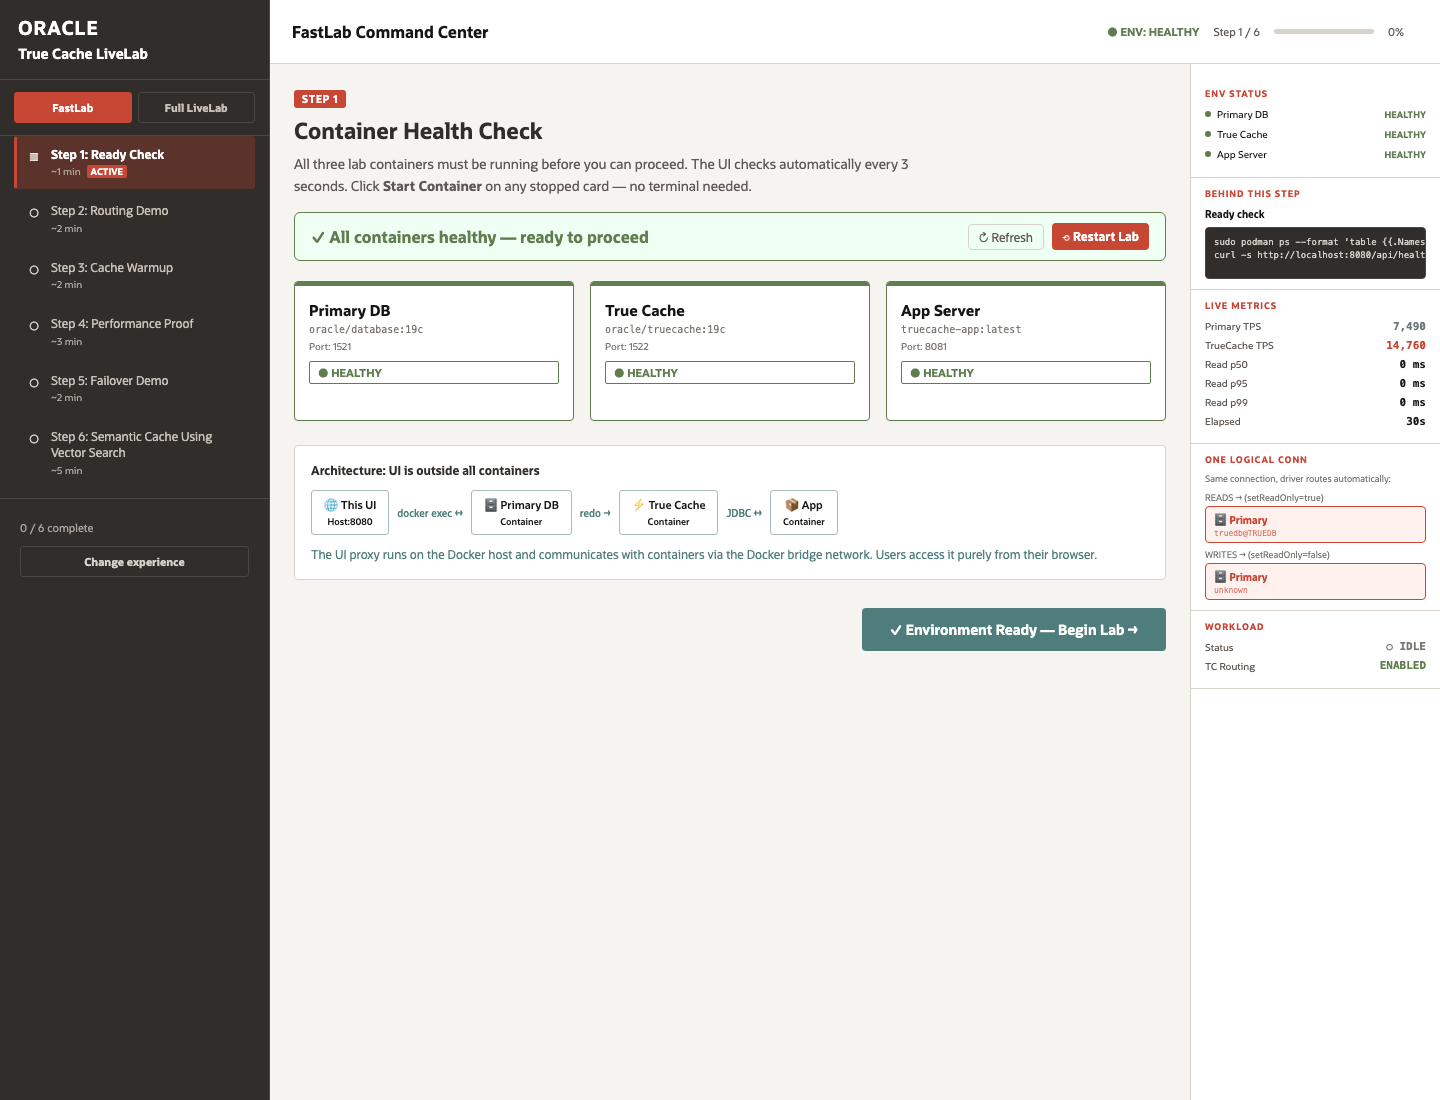
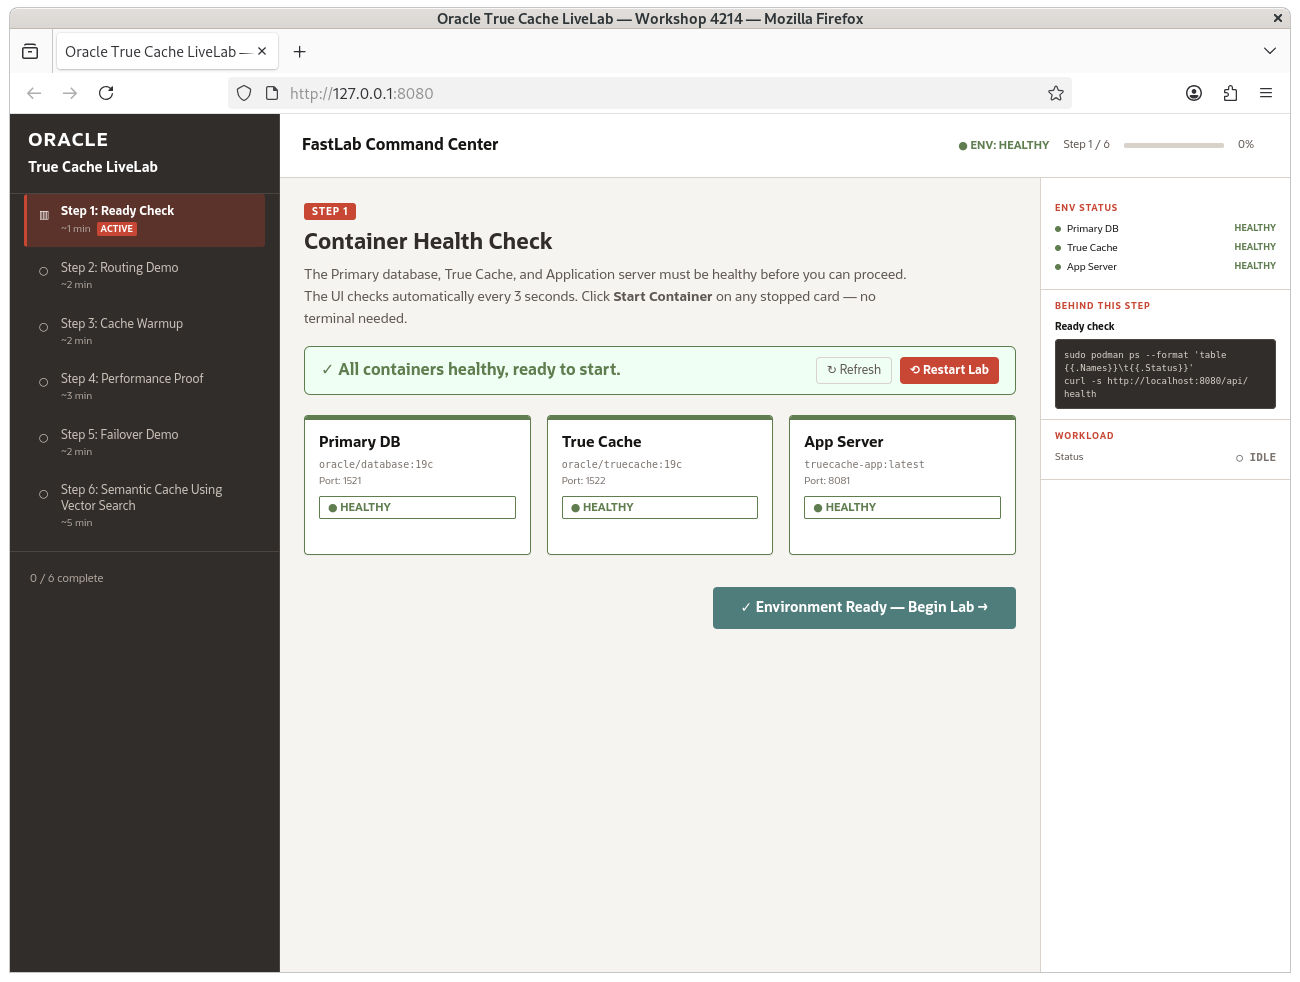
TrueCache live labs changes as per Nithin's review

Changed region(s): [[0.0, 0.0, 1.0, 1.0], [0.9538, 0.5804, 1.0, 0.611]]

diff --git a/truecache/fastlab/fastlab_dbw26.md b/truecache/fastlab/fastlab_dbw26.md
@@ -2,7 +2,7 @@
 
 ## Introduction
 
-FastLab is a visual, six-step demonstration of Oracle True Cache. The command center uses the pre-provisioned transaction environment and runs the database checks, JDBC workloads, cache warmup, availability test, and vector searches through guided controls.
+FastLab is a visual, six-step demonstration of Oracle True Cache. Open the command center and follow the single guided flow; no experience chooser or separate command-line lab is required. The command center uses the pre-provisioned transaction environment and runs the database checks, JDBC workloads, cache warmup, availability test, and vector searches through guided controls.
 
 The environment contains the `TRANSACTIONS` schema with preloaded `ACCOUNTS`, `PAYMENTS`, and payment-vector sample data. FastLab performs the demonstration without requiring terminal commands or manual database setup.
 
@@ -20,14 +20,12 @@ Estimated Time: 25 minutes.
 ## Before You Begin
 
 1. Open the LiveLabs desktop and launch the True Cache LiveLab UI.
-2. Select **FastLab: Quick Guided Demo** from the experience chooser.
+2. Open `http://127.0.0.1:8080` in the LiveLabs desktop browser. FastLab opens directly; there is no experience chooser.
 3. Keep the command center open while completing each step. The right-hand panel shows environment health, the current workload, and the command or query being demonstrated behind the active step.
-
-![FastLab experience chooser](images/fastlab-experience-chooser.png " ")
 
 ## FastLab Validation and Recovery
 
-FastLab uses a host-level web proxy in addition to the `prod`, `truedb`, and `appclient` containers. The proxy is not a `truecache-ui.service` systemd service, so a missing systemd unit does not indicate a database failure.
+FastLab uses a host-level web proxy in addition to the `prod`, `truedb`, and `appclient` containers. The proxy is managed by `truecache-ui.service`.
 
 ### If the FastLab page does not open
 
@@ -39,12 +37,12 @@ FastLab uses a host-level web proxy in addition to the `prod`, `truedb`, and `ap
     </copy>
     ```
 
-2. If there is no listener, start the UI proxy from the supplied application directory:
+2. If there is no listener, check and restart the UI service:
 
     ```
     <copy>
-    cd /home/opc/LiveLabs_clientapp_warmup_Jul2025-1
-    sudo bash ./redeploy.sh --no-ui-build
+    sudo systemctl status truecache-ui.service --no-pager
+    sudo systemctl restart truecache-ui.service
     </copy>
     ```
 
@@ -99,8 +97,8 @@ This demonstrates the application behavior that makes True Cache transparent to 
 ## Task 3: Cache Warmup
 
 1. Select **ACCOUNTS** and **PAYMENTS**.
-2. Select **Apply KEEP**.
-3. Confirm that each selected table and its available indexes appear as **KEPT** in the object list.
+2. Select **Apply KEEP**. KEEP applies only to selected tables and their available indexes.
+3. Confirm that each selected table and its available indexes appear as **KEPT** in the object list. Leave `PAYMENT_VECTORS` unselected in this step; the vector search step uses it after its vector index is already provisioned.
 4. Select **Warm Up**.
 5. Wait for the table, index, and overall progress indicators to complete.
 6. Expand **Performance timelines** or the cache statistics panel to review the resulting hit-ratio and fetch statistics.
@@ -117,7 +115,7 @@ Keeping the objects tells True Cache which transaction data should remain in its
 3. Allow the background jobs to run briefly before starting the read workload.
 4. Select **Run: Primary Only** and review the Primary read TPS and latency.
 5. Select **Run: True Cache** and review the True Cache read TPS and latency.
-6. Select **Run Parallel Comparison** when you want to see both read paths during the same interval. Compare the live read chart, read TPS cards, and latency table.
+6. Compare the live read chart, read TPS cards, and latency table. The Primary and True Cache runs are separate read legs so the effect of Primary write pressure is easy to interpret.
 7. Expand **Performance timelines** to review:
    - Transport lag and apply lag from replication.
    - True Cache, RAM, and flash hit ratios.
@@ -130,8 +128,8 @@ The read comparison is intentionally shown separately from the write activity. P
 
 ## Task 5: Availability: Primary Down, True Cache Still Serving
 
-1. Select **Start Comparison** and allow both read paths to begin.
-2. Select **Stop Primary**.
+1. Select **Start Parallel Workload**. This starts read activity on both Primary and True Cache.
+2. Select **Kill Primary DB**.
 3. Confirm that Primary changes to an unavailable state while True Cache remains healthy.
 4. Review the True Cache read TPS and the logical-connection status in the right-hand panel.
 5. Select **Restore Primary**.

diff --git a/truecache/initialize-environment/initialize-environment_dbw26.md b/truecache/initialize-environment/initialize-environment_dbw26.md
@@ -2,12 +2,7 @@
 
 ## Introduction
 
-In this lab, you will validate the pre-provisioned Oracle True Cache environment and choose how you want to run the workshop.
-
-The DBW26 workshop supports two equal paths:
-
-- **FastLab - Quick guided demo:** a visual command-center experience for a short guided demonstration.
-- **Full LiveLab - Command-line workshop:** a documentation-style path where you copy commands into the terminal and see the database, Java, and container operations directly.
+In this lab, you will validate the pre-provisioned Oracle True Cache environment before continuing through the detailed command-line labs. The visual FastLab is a separate tutorial in the workshop menu and opens directly at the local command center.
 
 *Estimated Time:* 10 Minutes.
 
@@ -18,8 +13,8 @@ Watch the video for a quick walk through of the Lab1.
 
 ### Objectives
 - Validate that the Primary database, True Cache, and app containers are running.
-- Open the Oracle True Cache LiveLab UI.
-- Choose either the FastLab quick guided demo or the Full LiveLab command-line workshop.
+- Open the remote desktop terminal used by the detailed command-line labs.
+- Confirm that the Primary database, True Cache, and application containers are ready.
 
 ### Prerequisites
 This lab assumes you have:
@@ -78,16 +73,16 @@ The FastLab web proxy runs on the host and listens on port `8080`; it is separat
         </copy>
         ```
 
-If no process is listening, restart the supplied proxy from the application directory:
+If no process is listening, check and restart the supplied UI service:
 
         ```
         <copy>
-        cd /home/opc/LiveLabs_clientapp_warmup_Jul2025-1
-        sudo bash ./redeploy.sh --no-ui-build
+        sudo systemctl status truecache-ui.service --no-pager
+        sudo systemctl restart truecache-ui.service
         </copy>
         ```
 
-Refresh the browser after the command completes. The proxy is not managed by `truecache-ui.service`, so `Unit truecache-ui.service does not exist` is expected on images that use this deployment layout.
+Refresh `http://127.0.0.1:8080` after the service is active. FastLab opens directly; there is no experience chooser.
 
 ### Recover stopped or unhealthy containers
 
@@ -102,22 +97,10 @@ If `prod`, `truedb`, or `appclient` is stopped, start the pre-provisioned contai
 
 Allow several minutes for the Oracle database containers to become healthy after a restart. Do not continue until `prod` and `truedb` report **healthy** and all three containers are running. If a named container is missing from `sudo podman ps -a`, the instance was not provisioned with the required lab environment and must be restored by the lab administrator.
 
-## Task 2: Open the True Cache LiveLab UI
+## Task 2: Open the True Cache LiveLab UI (Optional)
 
-1. Open a browser in the remote desktop and navigate to the LiveLab UI URL provided for your environment.
-
-2. The first screen asks you to choose how to run the lab.
-
-    ![True Cache LiveLab experience chooser](images/truecache-experience-chooser.png " ")
-
-3. Select one of the following:
-
-    - **FastLab** for the quick guided demo.
-    - **Full LiveLab** for the command-line workshop.
-
-4. You can switch between modes later from the left navigation.
-
-![Full LiveLab environment](images/full-livelab-environment.png " ")
+1. If you are using the visual FastLab tutorial, open a browser in the remote desktop and navigate to `http://127.0.0.1:8080`.
+2. FastLab opens directly to its six-step flow. The command-line labs remain available as separate tutorials in the workshop menu.
 
 ## Task 3: Validate True Cache Services from the Terminal
 

diff --git a/truecache/vector-search/vector-search_dbw26.md b/truecache/vector-search/vector-search_dbw26.md
@@ -42,7 +42,7 @@ Open Primary SQL*Plus:
 
 ~~~text
 <copy>
-podman exec -it prod /bin/bash
+sudo podman exec -it prod /bin/bash
 export ORACLE_SID=ORCLCDB
 sqlplus / as sysdba
 alter session set container=ORCLPDB1;
@@ -105,15 +105,23 @@ select count(*) vector_rows from TRANSACTIONS.PAYMENT_VECTORS;
 </copy>
 ~~~
 
-Create the cosine IVF vector index:
+Create the cosine IVF vector index, or rebuild it if the table was refreshed. Truncating an IVF base table marks its vector index unusable, so the existing-index branch must rebuild it before searching:
 
 ~~~text
 <copy>
+declare
+  v_index_count number;
 begin
-  execute immediate 'create vector index TRANSACTIONS.PAYMENT_VECTORS_IVF_IDX on TRANSACTIONS.PAYMENT_VECTORS (embedding) organization neighbor partitions distance cosine with target accuracy 90';
-exception
-  when others then
-    if sqlcode not in (-955, -1408) then raise; end if;
+  select count(*)
+    into v_index_count
+    from dba_indexes
+   where owner = 'TRANSACTIONS'
+     and index_name = 'PAYMENT_VECTORS_IVF_IDX';
+  if v_index_count = 0 then
+    execute immediate 'create vector index TRANSACTIONS.PAYMENT_VECTORS_IVF_IDX on TRANSACTIONS.PAYMENT_VECTORS (embedding) organization neighbor partitions distance cosine with target accuracy 90';
+  else
+    execute immediate 'alter index TRANSACTIONS.PAYMENT_VECTORS_IVF_IDX rebuild online';
+  end if;
 end;
 /
 select index_name, index_type, status
@@ -146,7 +154,7 @@ Run the nearest-neighbor query through True Cache. Replace 1 with the payment ID
 
 ~~~text
 <copy>
-podman exec -it truedb /bin/bash
+sudo podman exec -it truedb /bin/bash
 export ORACLE_SID=TRUEDB
 sqlplus / as sysdba
 set pages 100 lines 220
@@ -211,7 +219,7 @@ This query looks for similar payment profiles from another country. The country 
 The lab is complete when:
 
 - PAYMENT_VECTORS contains the payment embedding sample.
-- PAYMENT_VECTORS_IVF_IDX is present.
+- PAYMENT_VECTORS_IVF_IDX is present and **VALID**.
 - The similar-payment query returns five rows through True Cache.
 - The account behavior query returns the closest rows for the selected account.
 - The cross-border query returns the closest rows from another country.

diff --git a/truecache/jdbc/jdbc_dbw26.md b/truecache/jdbc/jdbc_dbw26.md
@@ -62,7 +62,7 @@ The result identifies the database role used by the read-only operation. The con
 3. FastLab starts the Primary background read/write activity before the comparison.
 4. Select **Run: Primary Only** and review Primary read TPS.
 5. Select **Run: True Cache** and review True Cache read TPS and latency.
-6. Select **Run Parallel Comparison** and compare the read chart, TPS cards, and latency table.
+6. Compare the read chart, TPS cards, and latency table. The Primary and True Cache runs are separate read legs so the effect of Primary write pressure is easy to interpret.
 7. Expand **Performance timelines** to review lag, hit ratios, and fetch latency.
 
 ### Full LiveLab
@@ -156,8 +156,8 @@ The workload output reports read TPS and read node values. The diagnostics show 
 ### FastLab
 
 1. Open **Step 5: Failover Demo**.
-2. Select **Start Comparison**.
-3. Select **Stop Primary**.
+2. Select **Start Parallel Workload**. This starts read activity on both Primary and True Cache.
+3. Select **Kill Primary DB**.
 4. Review True Cache read TPS while Primary is stopped.
 5. Select **Restore Primary**.
 6. Wait for Primary and True Cache to show **HEALTHY**.
